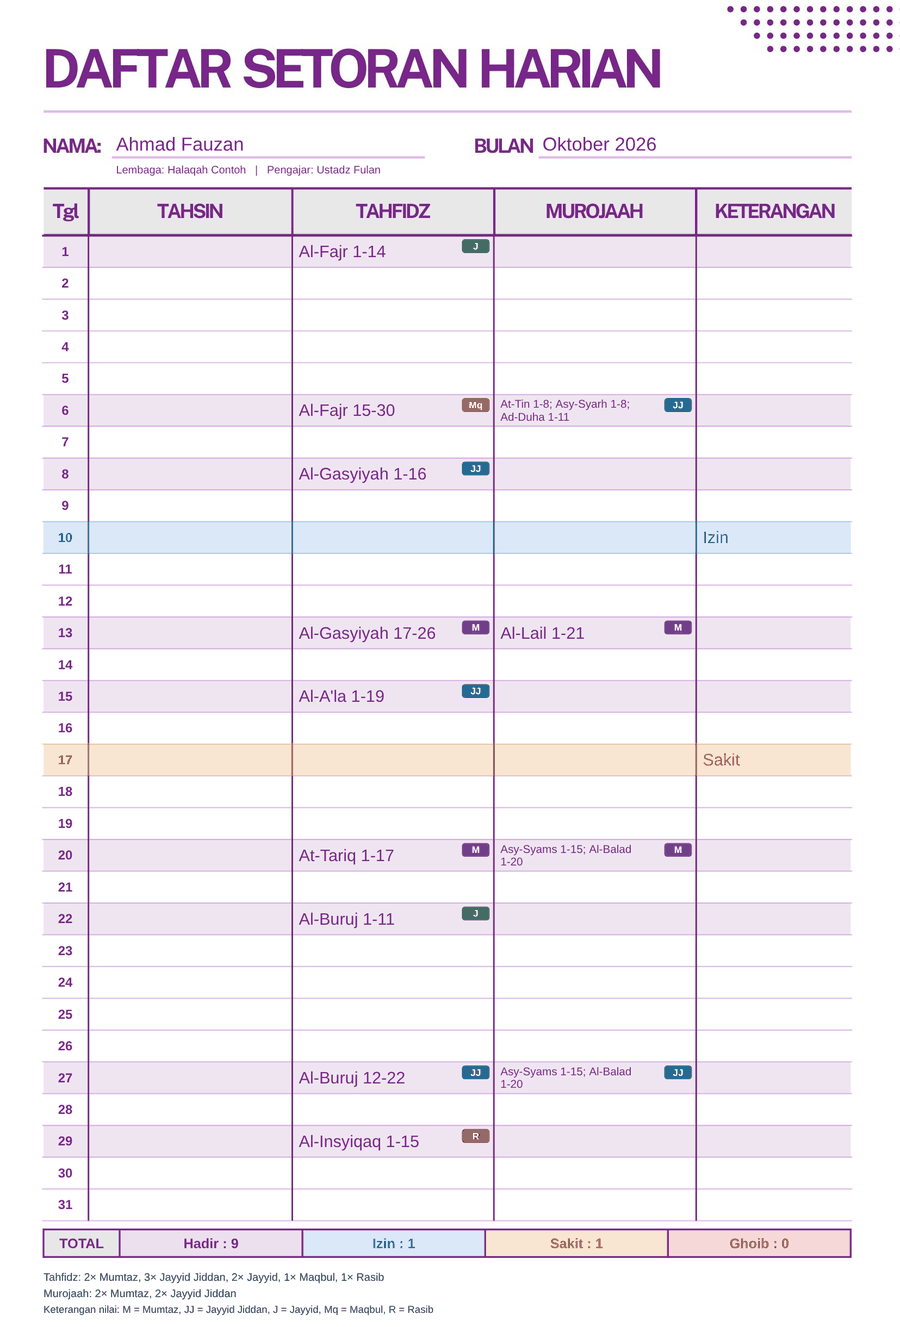
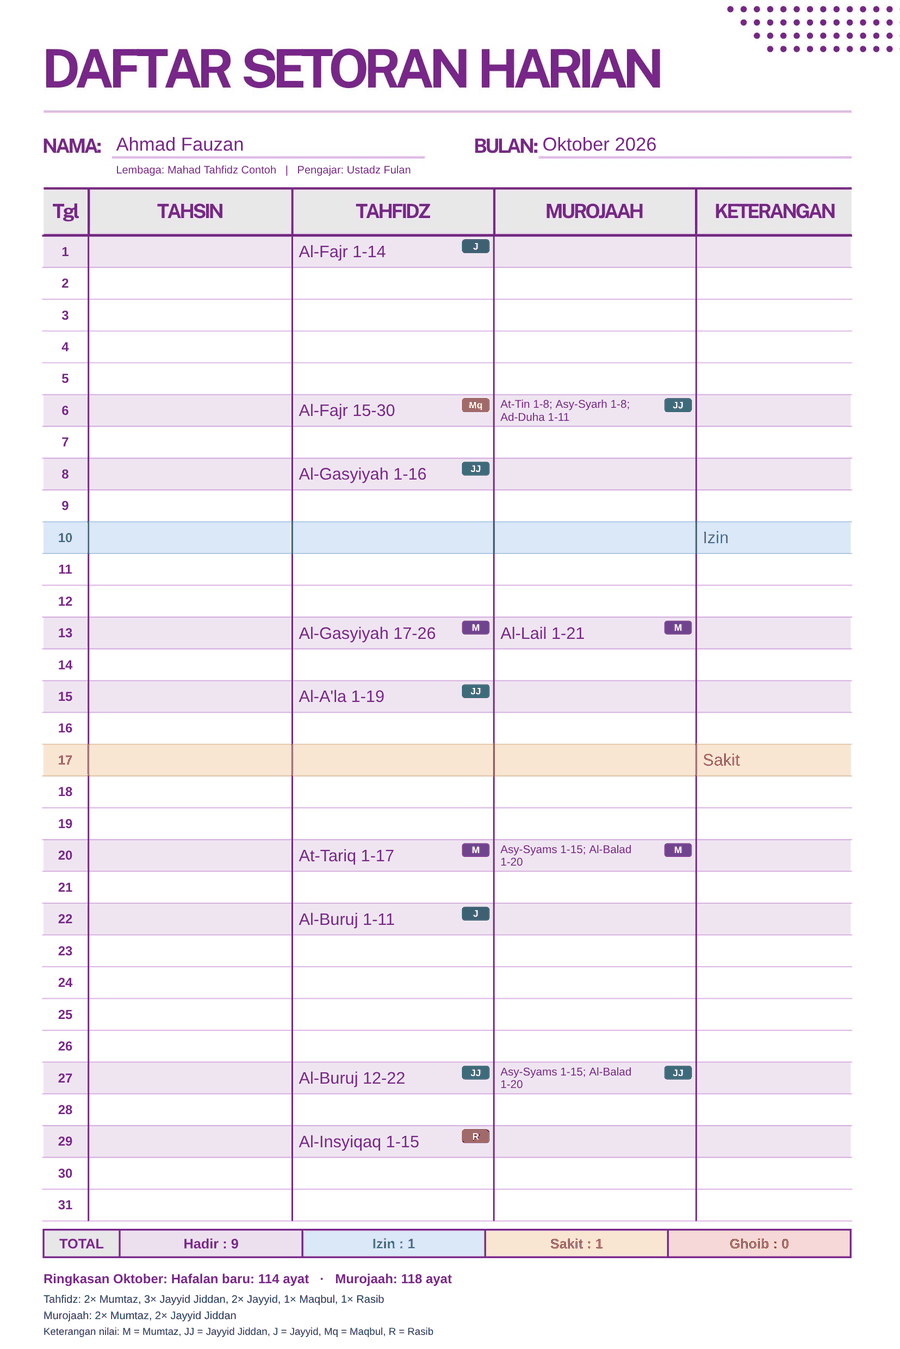
Laporan bulanan: ringkasan ayat dan titik dua pada BULAN
- Tambah baris ringkasan di bawah TOTAL: hafalan baru, murojaah, dan
  tahsin (bila ada) dalam ayat untuk bulan itu, dihitung dengan cara yang
  sama seperti Progres (pgMonthAyat, diuji). Tidak tampil bila kosong.
- Template menulis 'NAMA:' tetapi 'BULAN' tanpa titik dua. Titik dua
  disalin dari piksel 'NAMA:' di template sehingga bentuk dan warnanya
  sama, dan ikut berubah mengikuti palet warna.

Claude-Session: https://claude.ai/code/session_014gCVuLcPiL3Dco5abXn4Uk

Changed region(s): [[0.0311, 0.0309, 0.9644, 0.9887]]

diff --git a/www/index.html b/www/index.html
@@ -2074,8 +2074,18 @@
           return item.count + "× " + grade.label;
         }).join(", "));
       });
+      // Ringkasan ayat bulan ini (di bawah baris TOTAL)
+      var monthAyat = pgMonthAyat(data.entries[s.id], yr, m0);
+      var ayatParts = [];
+      if (monthAyat.tahfidz || monthAyat.murojaah || monthAyat.tahsin) {
+        ayatParts.push("Hafalan baru: " + pgFmt(monthAyat.tahfidz) + " ayat");
+        ayatParts.push("Murojaah: " + pgFmt(monthAyat.murojaah) + " ayat");
+        if (monthAyat.tahsin) ayatParts.push("Tahsin: " + pgFmt(monthAyat.tahsin) + " ayat");
+      }
+      var ayatLine = ayatParts.length ? "Ringkasan " + BULAN_ID[m0] + ": " + ayatParts.join("   ·   ") : "";
       var summaryTop = (TPL.row1Top + nDays * TPL.rowH + 12 + 38 + 18) * S;
-      var summaryHeight = gradeSummaryRows.length ? (gradeSummaryRows.length + 1) * 22 * S + 12 * S : 0;
+      var summaryHeight = (ayatLine ? 30 * S : 0) +
+        (gradeSummaryRows.length ? (gradeSummaryRows.length + 1) * 22 * S : 0) + (ayatLine || gradeSummaryRows.length ? 12 * S : 0);
       canvas.height = Math.max(img.naturalHeight, Math.ceil(summaryTop + summaryHeight));
       var ctx = canvas.getContext("2d");
       ctx.fillStyle = "#ffffff";
@@ -2085,6 +2095,13 @@
       // Hapus logo/watermark bawaan (baked-in) template, lalu gambar ulang
       // garis kisi tabel secara terprogram sebelum elemen lain digambar.
       redrawTableGrid(ctx, S);
+
+      // Template menulis "NAMA:" tapi "BULAN" tanpa titik dua: salin titik dua dari "NAMA:"
+      // (piksel template asli, jadi huruf & warnanya sama persis) ke belakang "BULAN".
+      if (img.naturalWidth === 1655) {
+        var kc = canvas.width / img.naturalWidth;
+        ctx.drawImage(img, 179, 258, 8, 26, 982 * kc, 258 * kc, 8 * kc, 26 * kc);
+      }
 
       // Warna laporan mengikuti palet "Warna aplikasi" yang dipilih di Setelan.
       var reportPal = REPORT_PALETTE[settings.palette] || REPORT_PALETTE.ungu;
@@ -2246,8 +2263,13 @@
       });
       ctx.textAlign = "left";
 
+      var summaryY = summaryTop;
+      if (ayatLine) {
+        ctx.fillStyle = PURPLE;
+        drawFitted(ctx, ayatLine, 60 * S, 1173 * S, summaryY, summaryY + 24 * S, S, { sizes: [18, 16, 14], multiline: false, padX: 0, bold: true });
+        summaryY += 30 * S;
+      }
       if (gradeSummaryRows.length) {
-        var summaryY = summaryTop;
         ctx.fillStyle = "#333333";
         ctx.font = "bold " + (15 * S) + "px " + FONT_FAMILY;
         gradeSummaryRows.forEach(function (text) {
@@ -3160,6 +3182,16 @@
     var run = baseline;
     list.forEach(function (b) { run += b.v; b.cum = run; });
     return list;
+  }
+
+  // Jumlah ayat dalam satu bulan untuk ringkasan laporan bulanan.
+  // tahfidz = ayat hafalan BARU (sama seperti Progres); murojaah & tahsin = ayat yang dibaca (pengulangan ikut dihitung).
+  function pgMonthAyat(ents, year, month0) {
+    var key = year + "-" + pad2(month0 + 1), out = {};
+    [["tahfidz", "fresh"], ["murojaah", "raw"], ["tahsin", "raw"]].forEach(function (f) {
+      out[f[0]] = pgAnalyze(ents, f[0]).daily.reduce(function (n, x) { return x.date.slice(0, 7) === key ? n + x[f[1]] : n; }, 0);
+    });
+    return out;
   }
 
   // Angka untuk rapor progres satu halaman (gambar unduhan). today = "YYYY-MM-DD".

diff --git a/tests/ayat-range.test.js b/tests/ayat-range.test.js
@@ -9,8 +9,8 @@ const pureSrc = html.slice(html.indexOf("// PG-PURE-BEGIN"), html.indexOf("// PG
 const pad2 = (n) => String(n).padStart(2, "0");
 const BULAN_ID = ["Januari","Februari","Maret","April","Mei","Juni","Juli","Agustus","September","Oktober","November","Desember"];
 const api = new Function("pad2", "BULAN_ID", surahSrc + "\n" + pureSrc +
-  "\nreturn {SURAHS, pgParseText, pgAnalyze, pgRangeCheck, pgFormatRange, pgRowsFromText, pgTextFromRows, pgSurahIndex, pgJuzOf, pgJuzSplit, pgJuzStats, pgSuggestSurah, pgDisplayText, pgResolveRow, PG_GRADES, pgGradeSummary, pgGradeBuckets, pgGradeEntryError, pgNormalizeEntryGrades, pgNormalizeEntries, pgRapor};")(pad2, BULAN_ID);
-const { SURAHS, pgParseText, pgAnalyze, pgRangeCheck, pgFormatRange, pgRowsFromText, pgTextFromRows, pgSurahIndex, pgJuzOf, pgJuzSplit, pgJuzStats, pgSuggestSurah, pgDisplayText, pgResolveRow, PG_GRADES, pgGradeSummary, pgGradeBuckets, pgGradeEntryError, pgNormalizeEntryGrades, pgNormalizeEntries, pgRapor } = api;
+  "\nreturn {SURAHS, pgParseText, pgAnalyze, pgRangeCheck, pgFormatRange, pgRowsFromText, pgTextFromRows, pgSurahIndex, pgJuzOf, pgJuzSplit, pgJuzStats, pgSuggestSurah, pgDisplayText, pgResolveRow, PG_GRADES, pgGradeSummary, pgGradeBuckets, pgGradeEntryError, pgNormalizeEntryGrades, pgNormalizeEntries, pgRapor, pgMonthAyat};")(pad2, BULAN_ID);
+const { SURAHS, pgParseText, pgAnalyze, pgRangeCheck, pgFormatRange, pgRowsFromText, pgTextFromRows, pgSurahIndex, pgJuzOf, pgJuzSplit, pgJuzStats, pgSuggestSurah, pgDisplayText, pgResolveRow, PG_GRADES, pgGradeSummary, pgGradeBuckets, pgGradeEntryError, pgNormalizeEntryGrades, pgNormalizeEntries, pgRapor, pgMonthAyat } = api;
 
 const idx = (n) => pgSurahIndex(n);
 const BAQ = idx("Al-Baqarah"), IMR = idx("Ali 'Imran"), NIS = idx("An-Nisa"), NAS = idx("An-Nas"), FAT = idx("Al-Fatihah");
@@ -464,5 +464,18 @@ t("rapor progres: ringkasan satu halaman", () => {
   assert.strictEqual(r.grades.murojaah.counts.M, 1);
   const empty = pgRapor({}, "2026-11-06");
   assert.strictEqual(empty.unique, 0); assert.strictEqual(empty.recent.length, 0); assert.strictEqual(empty.tahsinLast, null);
+});
+t("ringkasan ayat laporan bulanan", () => {
+  const ents = {
+    "2026-09-30": { tahsin: "", tahfidz: "Al-Mulk 1-10", murojaah: "", keterangan: "" },
+    "2026-10-01": { tahsin: "Al-Baqarah 106-109", tahfidz: "Al-Mulk 1-15", murojaah: "An-Nas 1-6; Al-Falaq 1-5", keterangan: "" },
+    "2026-10-02": { tahsin: "Iqro 4 hal 3", tahfidz: "Al-Mulk 11-20", murojaah: "An-Nas 1-6", keterangan: "" },
+    "2026-10-03": { tahsin: "", tahfidz: "Al-Qalam 1-5", murojaah: "", keterangan: "", nilai: { tahsin: "", tahfidz: "R", murojaah: "" } },
+    "2026-11-01": { tahsin: "", tahfidz: "Al-Qalam 1-5", murojaah: "", keterangan: "" }
+  };
+  // Oktober: hafalan baru 11-15 (5) + 16-20 (5) = 10; Rasib tidak dihitung; murojaah 11 + 6 = 17; tahsin 4 (Iqro diabaikan)
+  assert.deepStrictEqual(pgMonthAyat(ents, 2026, 9), { tahfidz: 10, murojaah: 17, tahsin: 4 });
+  assert.deepStrictEqual(pgMonthAyat(ents, 2026, 10), { tahfidz: 5, murojaah: 0, tahsin: 0 });
+  assert.deepStrictEqual(pgMonthAyat({}, 2026, 9), { tahfidz: 0, murojaah: 0, tahsin: 0 });
 });
 console.log(n + " tests passed");

diff --git a/README.md b/README.md
@@ -45,7 +45,7 @@ Semua nama dan catatan pada gambar ini fiktif.
 
 **Laporan bulanan**
 - Tabel per bulan dengan total Hadir, Izin, Sakit, dan Ghoib. Ketuk satu hari untuk mengedit.
-- Unduh sebagai gambar untuk dikirim ke wali santri, lengkap dengan nama lembaga, nama pengajar, rekap nilai, dan watermark lembaga (opsional).
+- Unduh sebagai gambar untuk dikirim ke wali santri, lengkap dengan nama lembaga, nama pengajar, ringkasan ayat bulan itu (hafalan baru, murojaah, tahsin), rekap nilai, dan watermark lembaga (opsional).
 
 **Progres hafalan**
 - Ringkasan per santri: ayat tercatat dari 6.236 ayat, surah tuntas, hari setoran, dan rata-rata ayat per hari.
